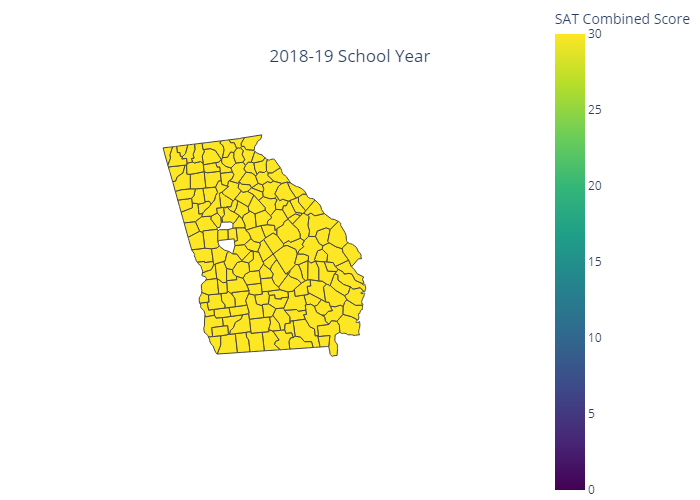
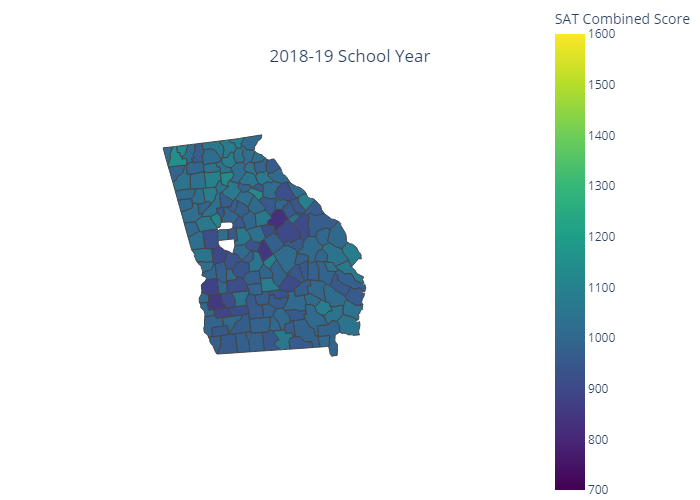
update scales

diff --git a/choropeth.py b/choropeth.py
@@ -72,7 +72,7 @@ for dataset in [ '2018-19','2019-20','2020-21']:
     
     fig = px.choropleth(df, geojson=counties, locations='FIPS', color='SAT Combined Score',
                         color_continuous_scale='Viridis',
-                        range_color=(0, 30),
+                        range_color=(700, 1600),
                         scope='usa',
                         labels={'Labels': 'SAT Combined Score'}
                         )
